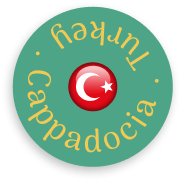
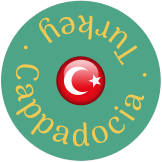
hero animations bumms

diff --git a/assets/css/global.css b/assets/css/global.css
@@ -1,5 +1,7 @@
 /* #region css reset */
-*, *::before, *::after {
+*,
+*::before,
+*::after {
   box-sizing: border-box;
   margin: 0;
 }
@@ -20,16 +22,29 @@ body {
   line-height: 1.5;
 }
 
-img, picture, video, canvas, svg {
+img,
+picture,
+video,
+canvas,
+svg {
   display: block;
   max-width: 100%;
 }
 
-input, button, textarea, select {
+input,
+button,
+textarea,
+select {
   font: inherit;
 }
 
-p, h1, h2, h3, h4, h5, h6 {
+p,
+h1,
+h2,
+h3,
+h4,
+h5,
+h6 {
   overflow-wrap: break-word;
 }
 
@@ -117,57 +132,59 @@ p {
   display: flex;
   justify-content: start;
   align-items: center;
- 
+
   padding-left: 146px;
   padding-right: 102px;
   position: sticky;
   top: 0;
   z-index: 100;
 
-  
+
 
 
 }
 
 @media (max-width: 767px) {
-    .desktop-nav {
-      display: none;
-    }
-
-    .bottom-navbar{
-      display: none;
-    }
-
-    .logo-img {
-      width: 48px;
-      height: 48px;
-    }
-
-    .logo-header .logo {
-    height: 48px;
-    width: auto;
-    }
+  .desktop-nav {
+    display: none;
   }
 
-    @media (min-width: 768px){
-    .bottom-navbar {
-      display: none;
-    }
-    .desktop-nav {
-      display: none;
-    }
+  .bottom-navbar {
+    display: none;
+  }
 
-    .logo-img {
-      width: 72px;
-      height: 72px;
-    }
-    .logo-header .logo {
+  .logo-img {
+    width: 48px;
+    height: 48px;
+  }
+
+  .logo-header .logo {
+    height: 48px;
+    width: auto;
+  }
+}
+
+@media (min-width: 768px) {
+  .bottom-navbar {
+    display: none;
+  }
+
+  .desktop-nav {
+    display: none;
+  }
+
+  .logo-img {
+    width: 72px;
+    height: 72px;
+  }
+
+  .logo-header .logo {
     height: 72px;
     width: auto;
     margin-left: 146px;
     margin-right: 102px;
-    }
   }
+}
 
 
 

diff --git a/assets/css/index.css b/assets/css/index.css
@@ -155,8 +155,8 @@
 
 .hero2 {
   position: relative;
-  width: 100vw;
-  height: 33rem;
+  width: 90rem;
+  height: 32rem;
   overflow: hidden;
 }
 
@@ -167,7 +167,7 @@
   z-index: 1;
   background-color: var(--color-primary-yellow);
   width: 100vw;
-  height: 33rem;
+  height: 32rem;
 }
 
 .hero-bg-picture {
@@ -175,11 +175,15 @@
   left: 0px;
   top: 0px;
   z-index: 2;
-  height: 33rem;
+  height: 32rem;
 }
 
 .hero-bg-picture img {
-  object-position: 60% 100%;
+  width: 100vw;
+  height: 32rem;
+  display: block;
+  object-fit: cover;
+  object-position: 40% 100%;
 }
 
 .hero-bg-picture img {
@@ -188,8 +192,9 @@
 
 .hero-element-yellow {
   width: 110rem;
+  height: 32rem;
   position: absolute;
-  left: -1450px;
+  left: -70rem;
   top: 0px;
   z-index: 3;
 }
@@ -197,29 +202,29 @@
 .hero-text {
   position: absolute;
   left: 3rem;
-  top: 4rem;
+  top: 5rem;
   z-index: 4;
-  width: 45%;
+  width: 30%;
 }
 
 .hero-text h3 {
   font-family: 'Arima', sans-serif;
   font-weight: 700;
-  font-size: 2.5rem;
+  font-size: 3.75rem;
   color: var(--color-secondary-brown);
 }
 
 .hero-text p {
   font-family: 'Palanquin', sans-serif;
   font-weight: 500;
-  font-size: 1.25rem;
+  font-size: 1.75rem;
   color: var(--color-secondary-brown);
 }
 
 .turkey-badge {
   position: absolute;
-  left: 8rem;
-  top: 15rem;
+  left: 27rem;
+  top: 17rem;
   z-index: 5;
   animation: rotate 20s linear infinite;
 }
@@ -236,8 +241,8 @@
 
 .turkey-flag {
   position: absolute;
-  left: 8rem;
-  top: 15rem;
+  left: 27rem;
+  top: 17rem;
   z-index: 6;
   border-color: red;
   border-width: 1rem;
